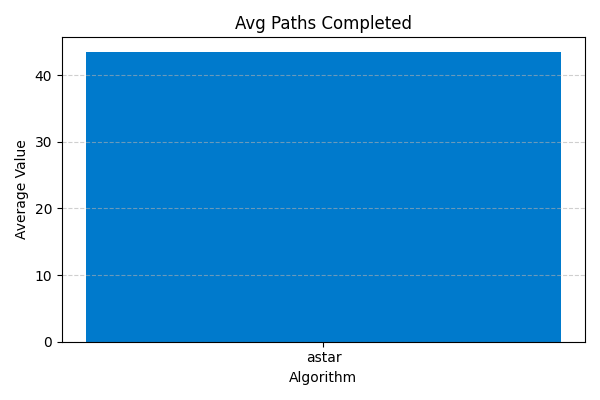
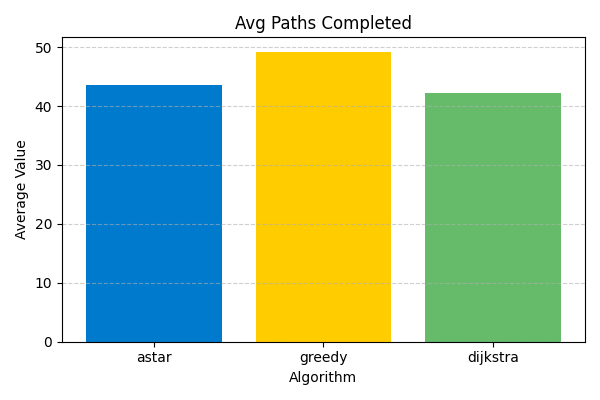
Latest update

diff --git a/core/game.py b/core/game.py
@@ -61,8 +61,10 @@ class Game:
         #    f.write("time,action,tile_x,tile_y\n")
 
         #Choose default algorithm to run when playing
-        self.pathfinding_algo = "dijkstra"  #possible values {greedy, astar, dijkstra}
+        self.pathfinding_algo = "astar"  #possible values {greedy, astar, dijkstra}
         self.distance_metric = "manhattan"  #possible values {manhattan, euclidean, chebyshev}
+        #We determined that these combinations of algo + distance measure are the best:
+        #{astar with manhattan, greedy with euclidean, dijkstra with euclidean}
 
     def load_level(self, name):
         """
